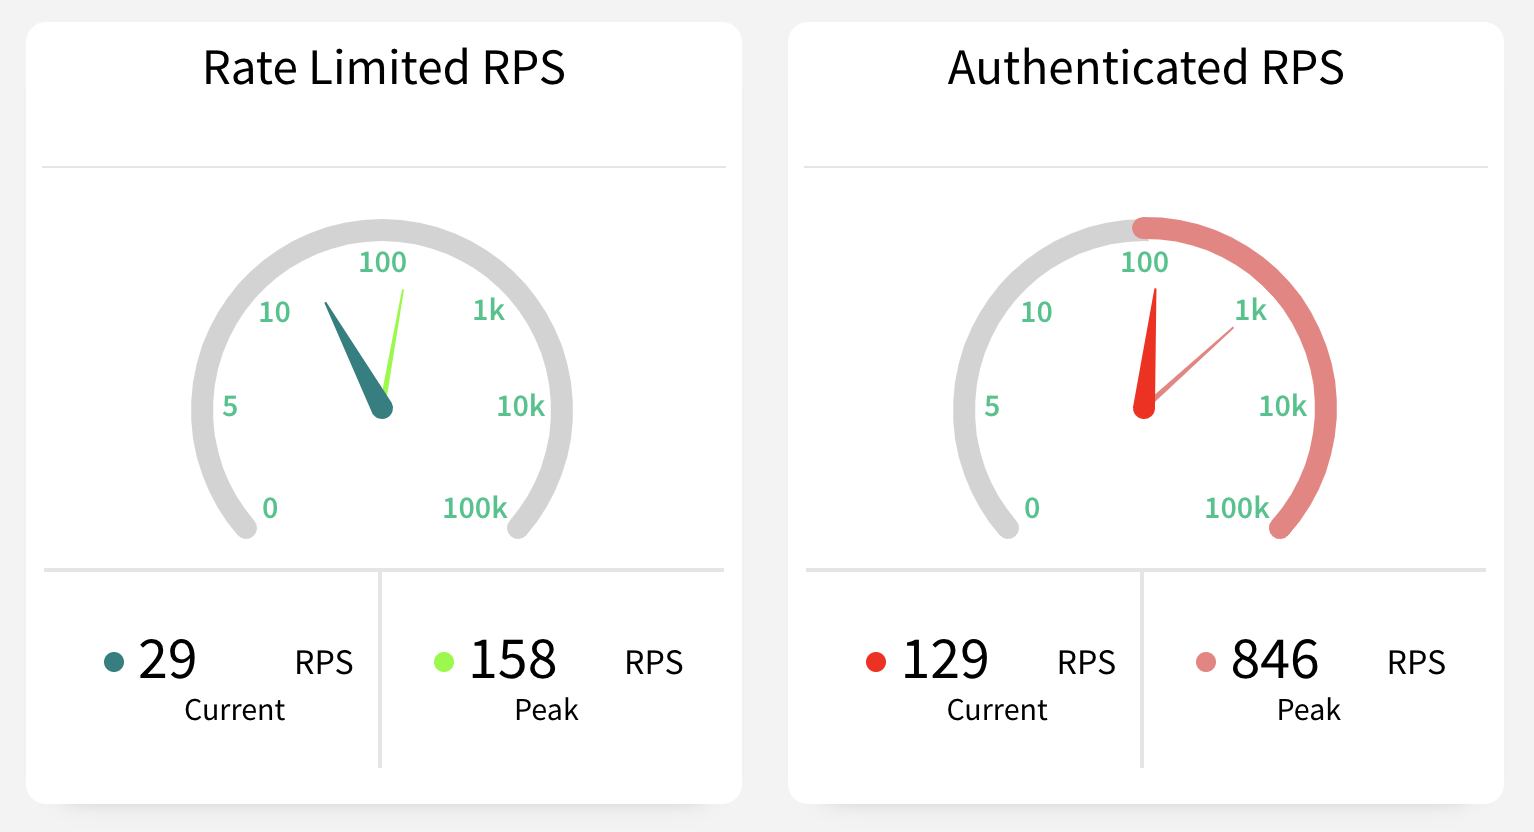
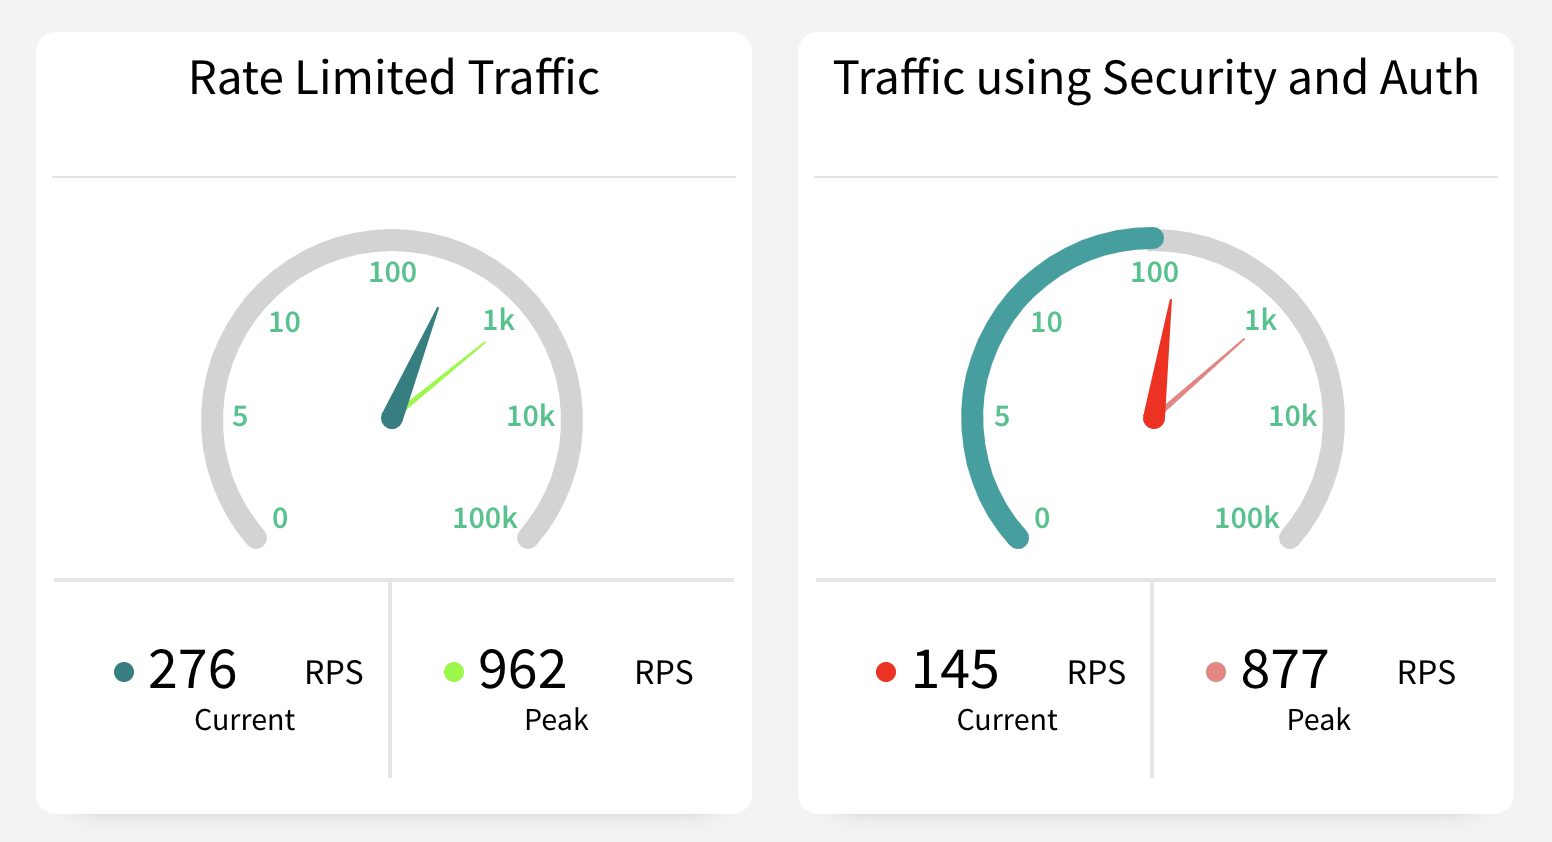
(from AES) new image with green arc, update text

diff --git a/topics/using/rate-limit-speedometers.md b/topics/using/rate-limit-speedometers.md
@@ -15,6 +15,6 @@ The RIGHT Speedometer
 
 - Shows RPS for all Authenticated user traffic through AES.
 - Authenticated usage is separate from the Rate Limited usage shown in the left hand speedometer.
-- A user's authenticated traffic limit is determined by their license, which is visualized by the light red zone on the speedometer arc.
+- A user's authenticated traffic limit is determined by their license, which is visualized by the green zone on the speedometer arc.
 
 Authenticated traffic volumes are a key factor in determining capacity needs and we want to help you select the Ambassador license optimal for your purposes.
